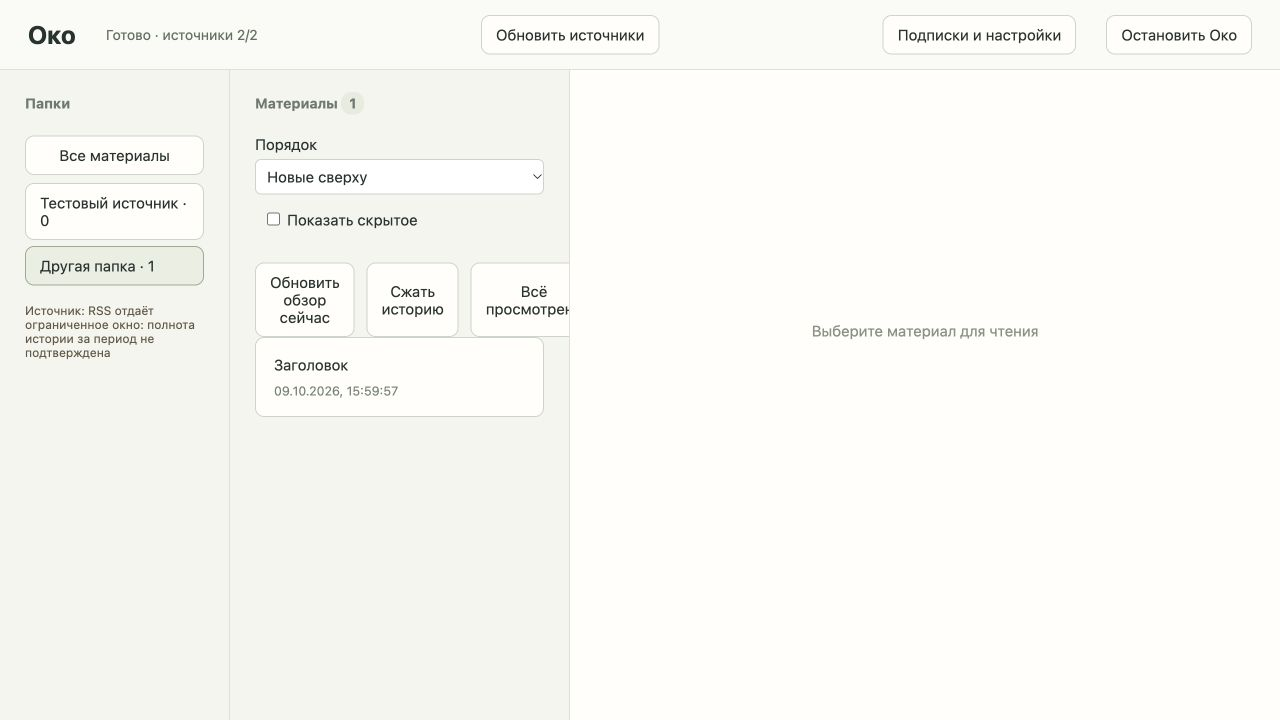
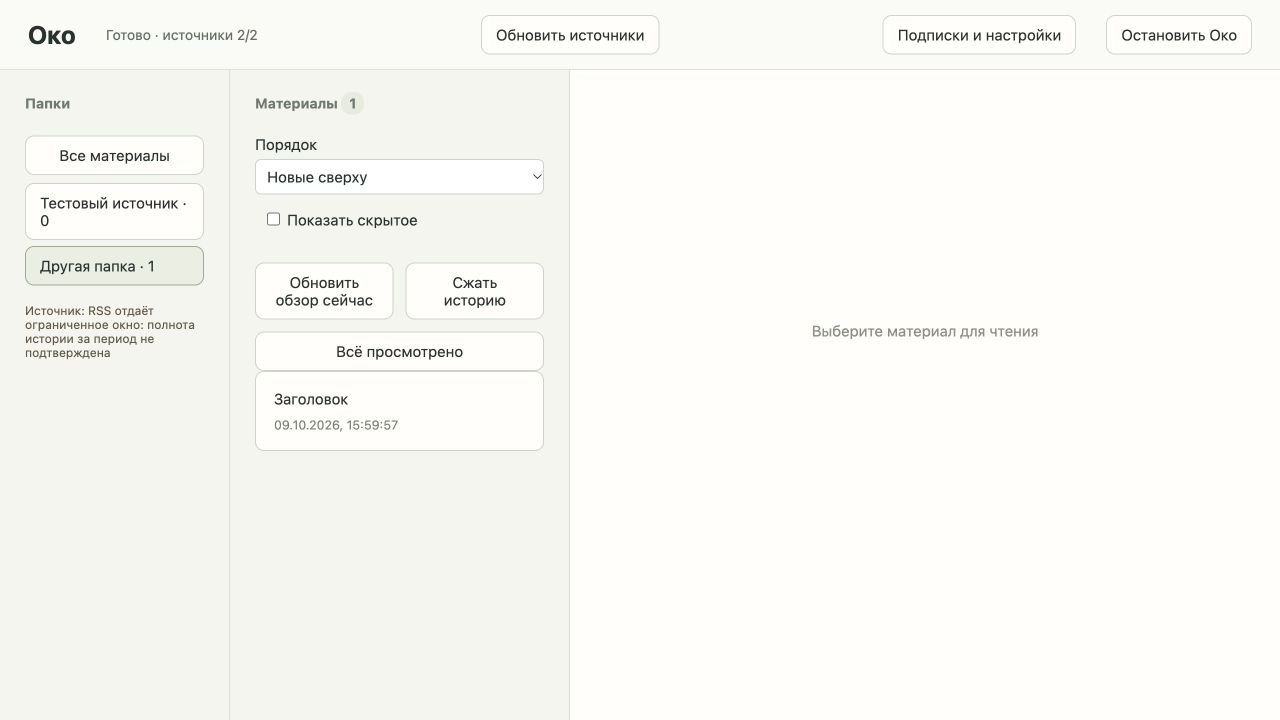
fix: wrap folder actions within reader column

Changed region(s): [[0.2188, 0.3667, 0.4375, 0.6111]]

diff --git a/oko/web/index.html b/oko/web/index.html
@@ -2,7 +2,7 @@
 <html lang="ru"><head><meta charset="utf-8"><meta name="viewport" content="width=device-width,initial-scale=1"><title>Око</title><link rel="stylesheet" href="/style.css"><script src="/app.js" defer></script></head>
 <body><header><strong>Око</strong><span id="progress" role="status">Подключение…</span><button id="collect">Обновить источники</button><button id="settings-open">Подписки и настройки</button><button id="stop">Остановить Око</button></header>
 <main><nav aria-label="Тематические папки"><h2>Папки</h2><button id="all-folders">Все материалы</button><div id="folders"></div><div id="source-status" role="status"></div></nav>
-<section aria-label="Карточки"><h2>Материалы <span id="count">0</span></h2><label>Порядок <select id="sort"><option value="newest">Новые сверху</option><option value="oldest">Старые сверху</option><option value="importance">Сначала важное</option></select></label><label><input id="show-hidden" type="checkbox"> Показать скрытое</label><div class="actions"><button id="digest-now" disabled>Обновить обзор сейчас</button><button id="compress" disabled>Сжать историю</button><button id="folder-viewed" disabled>Всё просмотрено</button></div><div id="cards"></div></section>
+<section aria-label="Карточки"><h2>Материалы <span id="count">0</span></h2><label>Порядок <select id="sort"><option value="newest">Новые сверху</option><option value="oldest">Старые сверху</option><option value="importance">Сначала важное</option></select></label><label><input id="show-hidden" type="checkbox"> Показать скрытое</label><div class="actions folder-actions"><button id="digest-now" disabled>Обновить обзор сейчас</button><button id="compress" disabled>Сжать историю</button><button id="folder-viewed" disabled>Всё просмотрено</button></div><div id="cards"></div></section>
 <article aria-label="Материал"><div id="empty">Выберите материал для чтения</div><div id="material" hidden><p class="meta" id="completeness">Тестовый источник · Полностью сохранено</p><h1 id="title"></h1><p id="date"></p><div id="event-panel" hidden><div id="event-body"></div><h2>Все источники</h2><div id="event-sources"></div></div><div id="theses-panel" hidden><h2>Тезисы публикации</h2><p id="ai-status" role="status"></p><ul id="theses"></ul><button id="theses-retry" hidden>Повторить подготовку тезисов</button></div><div id="filter-panel" hidden><p id="filter-status" role="status"></p><button id="filter-restore" hidden>Вернуть материал</button><button id="filter-retry" hidden>Повторить фильтрацию</button><div id="filtered-text"></div></div><details id="original-panel" open><summary>Оригинал публикации</summary><div id="text"></div><div id="images"></div></details><div class="actions"><button id="retry" hidden>Повторить загрузку</button><button id="copy">Скопировать ссылку на оригинал</button><button id="viewed">Просмотрено</button></div><p id="message" role="status"></p></div></article></main><dialog id="completion-dialog" aria-labelledby="completion-heading"><h1 id="completion-heading">Завершить разбор папки</h1><p id="completion-count"></p><p>Удалятся тексты, медиа и сводки всей папки, включая скрытые материалы. Другие папки останутся.</p><button id="completion-confirm" disabled>Подтвердить просмотр</button><button id="completion-close">Отмена</button><p id="completion-message" role="status"></p></dialog><dialog id="digest-dialog"><h1 id="digest-heading">Сжать историю папки</h1><p>По умолчанию — всё непросмотренное. Оригиналы останутся доступны до отметки «Просмотрено».</p><label>С даты (необязательно) <input id="digest-start" type="datetime-local"></label><label>По дату (необязательно) <input id="digest-end" type="datetime-local"></label><button id="digest-run">Создать сводку</button><button id="digest-close">Отмена</button><p id="digest-message" role="status"></p></dialog><dialog id="settings-dialog" aria-labelledby="settings-heading">
 <div class="dialog-header"><h1 id="settings-heading">Подписки и настройки</h1><button id="settings-close">Закрыть</button></div>
 <p>RSS/Atom собираются при открытой вкладке. Telegram через RSS требует явного выбора ограниченного подключения. Тезисы доступны через подключённую модель llama.cpp. Настройки сохраняются локально.</p>

diff --git a/oko/web/style.css b/oko/web/style.css
@@ -7,3 +7,5 @@ header #settings-open{margin-left:auto}header #stop{margin-left:0}#all-folders{w
 #images video, #images audio {max-width:100%;display:block;margin:16px 0;} #images video {max-height:600px;} #images .circle {width:320px;height:320px;object-fit:cover;border-radius:50%;}
 
 .source-text{white-space:pre-wrap;line-height:1.75}.source-media img,.source-media video,.source-media audio{display:block;max-width:100%;margin:16px 0}.source-media video{max-height:600px}.source-media .circle{width:320px;height:320px;object-fit:cover;border-radius:50%}#event-sources section{padding:16px 0;border-right:0}#event-sources details{margin-top:12px}
+
+.folder-actions{flex-wrap:wrap}.folder-actions button{flex:1 1 120px}
